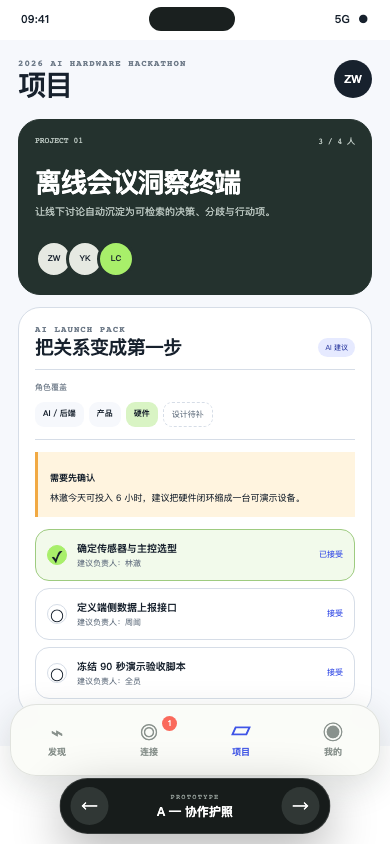
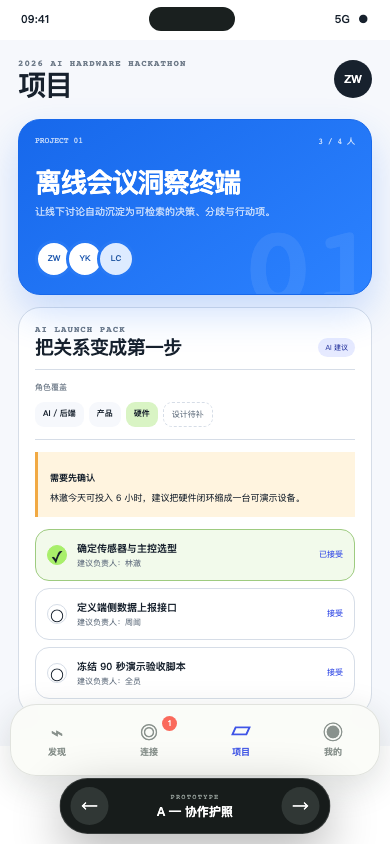
style: replace project green with collaboration blue

Changed region(s): [[0.0308, 0.1232, 0.9538, 0.3697]]

diff --git a/当前方案-ToC-AI组队/prototype/mobile-demo/styles.css b/当前方案-ToC-AI组队/prototype/mobile-demo/styles.css
@@ -336,8 +336,10 @@ body[data-flow="onboarding"] .onboarding-shell { background: #fff; background-im
 .empty-state { min-height: 390px; display: grid; place-content: center; justify-items: center; padding: 30px; text-align: center; }.empty-symbol { width: 66px; height: 66px; display: grid; place-items: center; border: 1px dashed var(--muted); border-radius: 50%; font-size: 26px; }.empty-state h4 { margin: 16px 0 6px; }.empty-state p { max-width: 240px; margin: 0 0 16px; color: var(--muted); font-size: 11px; line-height: 1.55; }
 .pending-row { display: grid; grid-template-columns: 42px 1fr auto; align-items: center; gap: 9px; margin-top: 10px; padding: 11px; border: 1px dashed var(--line); border-radius: 16px; }.pending-row div { display: grid; gap: 2px; font-size: 9px; }.pending-row div span { color: var(--muted); }.pending-row em { font-size: 8px; font-style: normal; color: var(--amber); }
 
-.project-card { color: white; background: #24322e; border-color: #24322e; }.project-kicker { display: flex; justify-content: space-between; font-family: monospace; font-size: 8px; color: #b8c4be; }.project-kicker em { font-style: normal; }.project-card h3 { margin: 22px 0 8px; max-width: 280px; font-size: 27px; line-height: 1; letter-spacing: -.05em; }.project-card > p { margin: 0; max-width: 280px; color: #b8c4be; font-size: 10px; line-height: 1.55; }
-.team-line { display: flex; align-items: center; margin-top: 20px; }.team-avatar, .team-gap { height: 38px; min-width: 38px; display: grid; place-items: center; margin-right: -7px; border: 3px solid #24322e; border-radius: 50%; background: #e6e9e2; color: var(--ink); font-size: 8px; font-weight: 800; }.team-avatar.new { background: var(--signal); }.team-gap { width: auto; padding: 0 14px; border-radius: 999px; border-style: dashed; background: transparent; color: white; }
+.project-card { position: relative; overflow: hidden; color: white; background: linear-gradient(145deg, #1768eb 0%, #2c82ff 100%); border-color: #1768eb; box-shadow: 0 18px 38px rgba(36,116,244,.22); }
+.project-card::after { content: "01"; position: absolute; right: -8px; bottom: -38px; color: rgba(255,255,255,.08); font-family: "SFMono-Regular", Consolas, monospace; font-size: 112px; font-weight: 900; }
+.project-kicker { position: relative; z-index: 1; display: flex; justify-content: space-between; font-family: monospace; font-size: 8px; color: rgba(255,255,255,.72); }.project-kicker em { font-style: normal; }.project-card h3 { position: relative; z-index: 1; margin: 22px 0 8px; max-width: 280px; font-size: 27px; line-height: 1; letter-spacing: -.05em; }.project-card > p { position: relative; z-index: 1; margin: 0; max-width: 280px; color: rgba(255,255,255,.75); font-size: 10px; line-height: 1.55; }
+.team-line { position: relative; z-index: 1; display: flex; align-items: center; margin-top: 20px; }.team-avatar, .team-gap { height: 38px; min-width: 38px; display: grid; place-items: center; margin-right: -7px; border: 3px solid #2778f4; border-radius: 50%; background: #fff; color: #1753ac; font-size: 8px; font-weight: 800; }.team-avatar.new { background: #ddebff; color: #174f9d; }.team-gap { width: auto; padding: 0 14px; border-radius: 999px; border-style: dashed; background: rgba(255,255,255,.08); color: white; }
 .launch-pack { margin-top: 12px; }.role-coverage { display: grid; gap: 9px; padding: 12px 0; border-top: 1px solid var(--line); border-bottom: 1px solid var(--line); }.role-coverage > span { font-size: 8px; color: var(--muted); }.role-coverage div { display: flex; flex-wrap: wrap; gap: 5px; }.role-coverage b, .role-coverage i { padding: 6px 8px; border-radius: 9px; background: var(--paper); font-size: 8px; font-style: normal; }.role-coverage .new-role { background: #d9f4c4; }.role-coverage i { color: var(--muted); border: 1px dashed var(--line); background: transparent; }
 .risk-note { margin: 12px 0; padding: 12px; border-left: 3px solid var(--amber); background: #fff4df; }.risk-note strong { font-size: 9px; }.risk-note p { margin: 5px 0 0; font-size: 9px; line-height: 1.5; }
 .task-list { display: grid; gap: 7px; }.task-item { width: 100%; display: grid; grid-template-columns: 22px 1fr auto; align-items: center; gap: 8px; padding: 11px; border: 1px solid var(--line); border-radius: 14px; background: white; text-align: left; cursor: pointer; }.task-item > span { width: 20px; height: 20px; display: grid; place-items: center; border: 1px solid var(--line); border-radius: 50%; }.task-item div { display: grid; gap: 3px; }.task-item strong { font-size: 10px; }.task-item small { font-size: 8px; color: var(--muted); }.task-item em { font-size: 8px; font-style: normal; color: var(--cobalt); }.task-item.accepted { border-color: #9ecb80; background: #f2faeb; }.task-item.accepted > span { background: var(--signal); border-color: var(--signal); }

diff --git a/当前方案-ToC-AI组队/prototype/mobile-demo/index.html b/当前方案-ToC-AI组队/prototype/mobile-demo/index.html
@@ -5,10 +5,10 @@
     <meta name="viewport" content="width=device-width, initial-scale=1, viewport-fit=cover" />
     <meta name="theme-color" content="#eef0e8" />
     <title>协作护照 · 手机端 Demo</title>
-    <link rel="stylesheet" href="./styles.css?v=20260828d" />
+    <link rel="stylesheet" href="./styles.css?v=20260828e" />
   </head>
   <body>
     <div id="app"></div>
-    <script src="./app.js?v=20260828d"></script>
+    <script src="./app.js?v=20260828e"></script>
   </body>
 </html>
